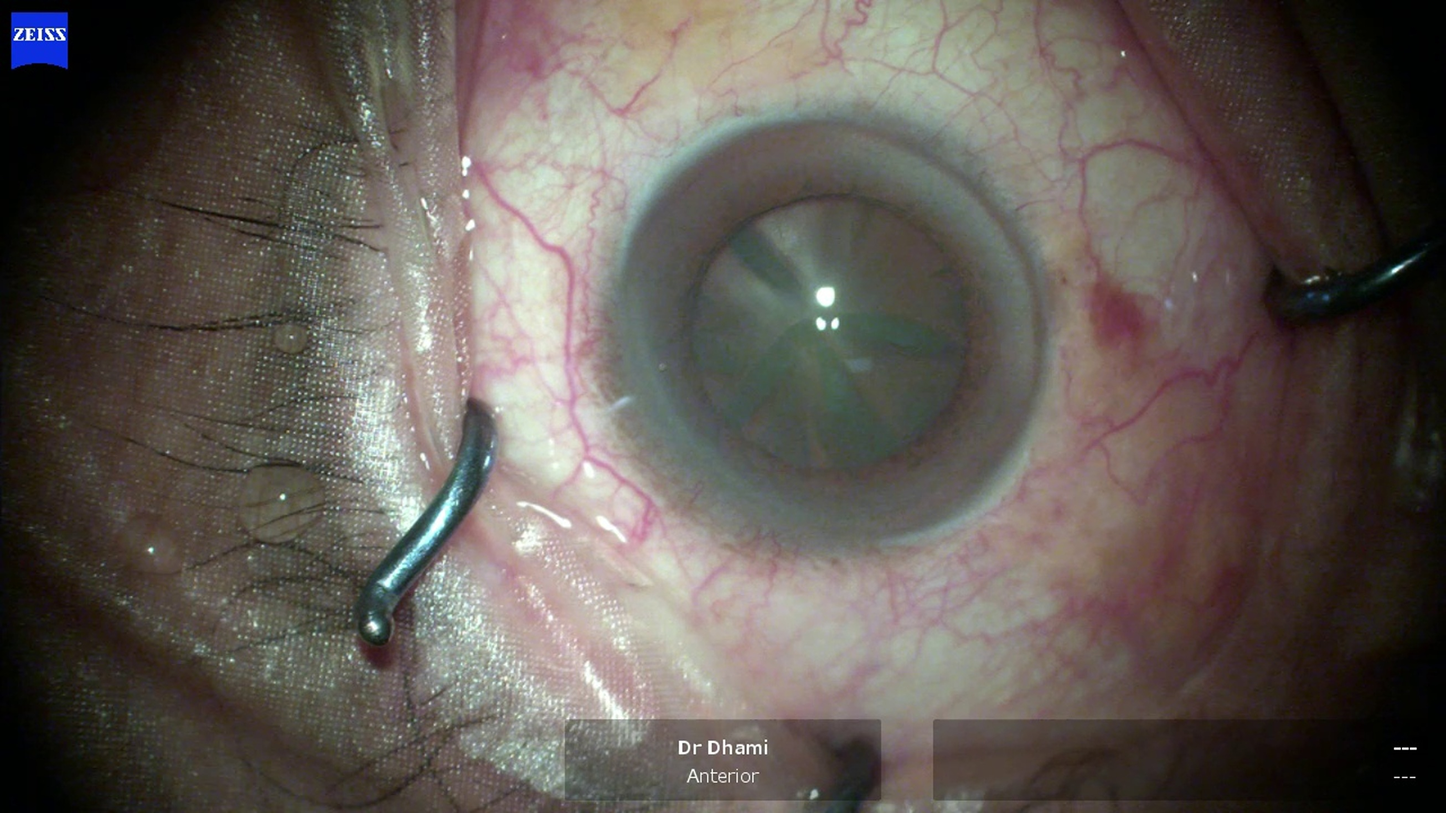
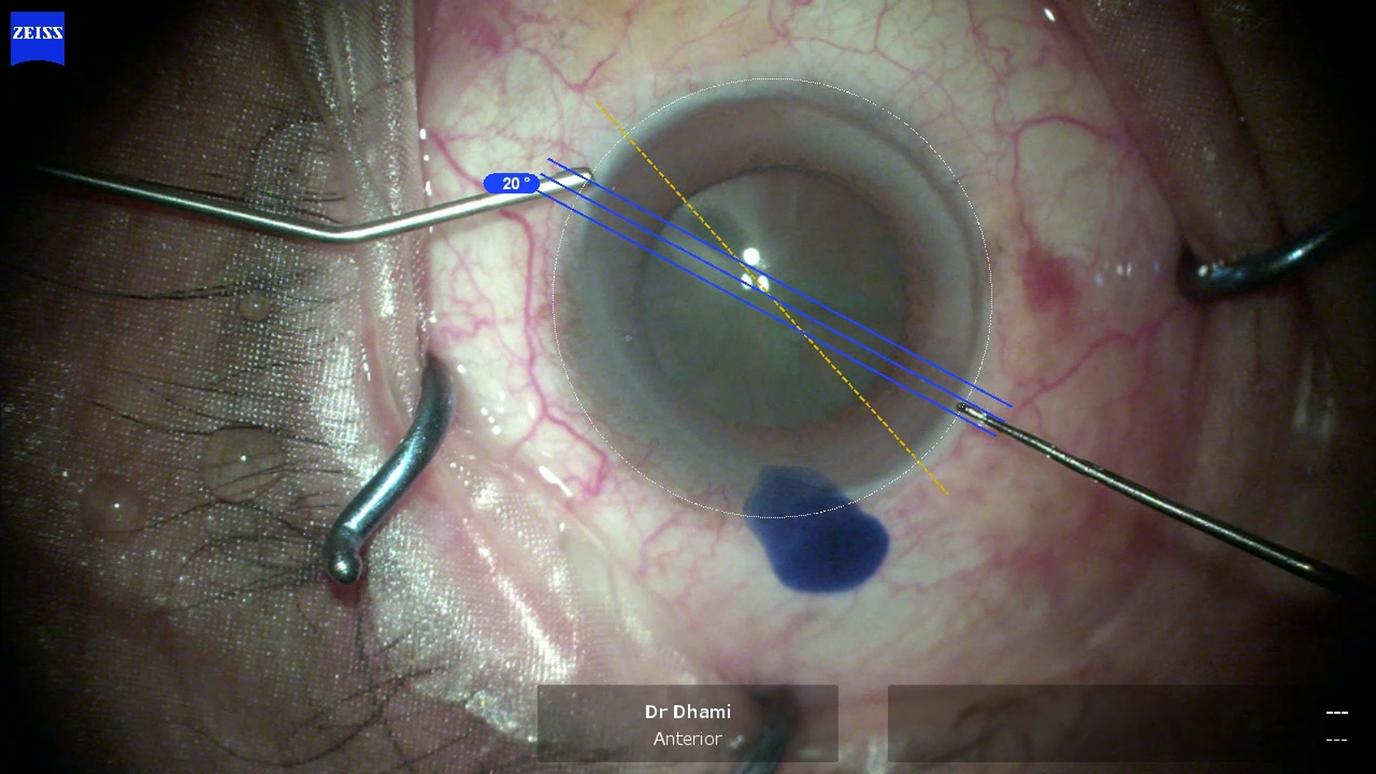
first_commit

diff --git a/app.py b/app.py
@@ -488,7 +488,7 @@ class ToricTrackerUI(QMainWindow):
         self.btn_load_preop.setFixedWidth(200)
         self.btn_load_preop.setStyleSheet("""
             QPushButton {
-                background-color: #9e9e9e;
+                background-color: #2196F3;
                 color: white;
                 border: none;
                 padding: 8px 15px;
@@ -496,7 +496,7 @@ class ToricTrackerUI(QMainWindow):
                 font-size: 11px;
             }
             QPushButton:hover {
-                background-color: #757575;
+                background-color: #1976D2;
             }
         """)
         self.btn_load_preop.clicked.connect(self.load_preop_model)
@@ -590,7 +590,7 @@ class ToricTrackerUI(QMainWindow):
         self.btn_submit_config = QPushButton("Submit / Start Registration")
         self.btn_submit_config.setStyleSheet("""
             QPushButton {
-                background-color: #9e9e9e;
+                background-color: #2196F3;
                 color: white;
                 border: none;
                 padding: 12px;
@@ -599,7 +599,7 @@ class ToricTrackerUI(QMainWindow):
                 border-radius: 5px;
             }
             QPushButton:hover {
-                background-color: #757575;
+                background-color: #1976D2;
             }
         """)
         self.btn_submit_config.clicked.connect(self.submit_configuration)
@@ -1054,7 +1054,7 @@ class ToricTrackerUI(QMainWindow):
         self.btn_start_tracking.setFixedHeight(35)  # Set fixed height
         self.btn_start_tracking.setStyleSheet("""
             QPushButton {
-                background-color: #9e9e9e;
+                background-color: #2196F3;
                 color: white;
                 border: none;
                 padding: 8px;
@@ -1062,7 +1062,7 @@ class ToricTrackerUI(QMainWindow):
                 font-weight: bold;
             }
             QPushButton:hover {
-                background-color: #757575;
+                background-color: #1976D2;
             }
         """)
         self.btn_start_tracking.clicked.connect(self.start_tracking)
@@ -1100,17 +1100,38 @@ class ToricTrackerUI(QMainWindow):
         checkbox_layout.setContentsMargins(0, 5, 0, 5)
         checkbox_layout.setSpacing(6)
         
-        self.check_ref_lines_tracking = QCheckBox("Show Ref Lines")
+        self.check_ref_lines_tracking = QCheckBox("Show Reference Line")
         self.check_ref_lines_tracking.setChecked(True)
         
-        self.check_toric_tracking = QCheckBox("Show Toric Axis (Dynamic)")
+        self.check_toric_tracking = QCheckBox("Show Toric Axis")
         self.check_toric_tracking.setChecked(True)
         
-        self.check_iris_ring = QCheckBox("Show Iris Ring")
+        self.check_iris_ring = QCheckBox("Show Limbus Circle")
         self.check_iris_ring.setChecked(True)
         
-        self.check_incision_tracking = QCheckBox("Show incision axis")
+        self.check_incision_tracking = QCheckBox("Show Incision Axis")
         self.check_incision_tracking.setChecked(True)
+        
+        # Create checkbox state references for dynamic updates during tracking
+        # Initialize with current checkbox states
+        self.tracking_show_reference_ref = [self.check_ref_lines_tracking.isChecked()]
+        self.tracking_show_toric_ref = [self.check_toric_tracking.isChecked()]
+        self.tracking_show_incision_ref = [self.check_incision_tracking.isChecked()]
+        self.tracking_show_limbus_ref = [self.check_iris_ring.isChecked()]
+        
+        # Connect checkboxes to update state references
+        self.check_ref_lines_tracking.stateChanged.connect(
+            lambda state: self._update_tracking_checkbox('reference', state)
+        )
+        self.check_toric_tracking.stateChanged.connect(
+            lambda state: self._update_tracking_checkbox('toric', state)
+        )
+        self.check_incision_tracking.stateChanged.connect(
+            lambda state: self._update_tracking_checkbox('incision', state)
+        )
+        self.check_iris_ring.stateChanged.connect(
+            lambda state: self._update_tracking_checkbox('limbus', state)
+        )
         
         checkbox_layout.addWidget(self.check_ref_lines_tracking)
         checkbox_layout.addWidget(self.check_toric_tracking)
@@ -2274,7 +2295,12 @@ class ToricTrackerUI(QMainWindow):
                     pause_flag_ref=self.tracking_pause_flag,
                     show_reference=self.check_ref_lines_tracking.isChecked(),
                     show_toric=self.check_toric_tracking.isChecked(),
-                    show_incision=self.check_incision_tracking.isChecked()
+                    show_incision=self.check_incision_tracking.isChecked(),
+                    show_limbus=self.check_iris_ring.isChecked(),
+                    show_reference_ref=self.tracking_show_reference_ref,
+                    show_toric_ref=self.tracking_show_toric_ref,
+                    show_incision_ref=self.tracking_show_incision_ref,
+                    show_limbus_ref=self.tracking_show_limbus_ref
                 )
                 # Store stats logger for later saving
                 self.tracking_stats_logger = stats_logger
@@ -2605,6 +2631,18 @@ class ToricTrackerUI(QMainWindow):
         self.canvas.show_incision_axis = self.check_incision.isChecked()
         self.canvas.show_iris_box = self.check_iris.isChecked()
         self.canvas.update()
+    
+    def _update_tracking_checkbox(self, checkbox_type: str, state: int):
+        """Update tracking checkbox state reference for dynamic updates during tracking"""
+        checked = (state == 2)  # Qt.Checked = 2
+        if checkbox_type == 'reference':
+            self.tracking_show_reference_ref[0] = checked
+        elif checkbox_type == 'toric':
+            self.tracking_show_toric_ref[0] = checked
+        elif checkbox_type == 'incision':
+            self.tracking_show_incision_ref[0] = checked
+        elif checkbox_type == 'limbus':
+            self.tracking_show_limbus_ref[0] = checked
     
     def reset_all(self):
         # Delete output folder before resetting

diff --git a/merged_pipeline.py b/merged_pipeline.py
@@ -557,7 +557,9 @@ def draw_line_on_frame(frame: np.ndarray,
                        incision_angle: float = None,
                        line_color: Tuple[int, int, int] = (0, 255, 255),
                        line_thickness: int = 2,
-                       preop_limbus_radius: int = None) -> np.ndarray:
+                       preop_limbus_radius: int = None,
+                       show_reference: bool = True,
+                       show_limbus: bool = True) -> np.ndarray:
     """
     Draw lines on a frame at specified angles from center.
     Matches Tab 3 (preop axis setup) visual style.
@@ -585,21 +587,22 @@ def draw_line_on_frame(frame: np.ndarray,
     length = int(radius * 1.5)
     
     # Draw reference line (broken yellow line) - matches Tab 3
-    angle_rad = np.radians(transformed_angle)
-    x1 = int(center[0] + length * np.cos(angle_rad))
-    y1 = int(center[1] + length * np.sin(angle_rad))
-    x2 = int(center[0] - length * np.cos(angle_rad))
-    y2 = int(center[1] - length * np.sin(angle_rad))
-    # Draw broken/dotted yellow line (simulate with segments)
-    num_segments = 20
-    dx = (x2 - x1) / num_segments
-    dy = (y2 - y1) / num_segments
-    for i in range(0, num_segments, 2):  # Draw every other segment for dotted effect
-        seg_x1 = int(x1 + i * dx)
-        seg_y1 = int(y1 + i * dy)
-        seg_x2 = int(x1 + (i + 1) * dx)
-        seg_y2 = int(y1 + (i + 1) * dy)
-        cv2.line(frame_copy, (seg_x1, seg_y1), (seg_x2, seg_y2), (0, 255, 255), line_thickness)  # Yellow in BGR
+    if show_reference:
+        angle_rad = np.radians(transformed_angle)
+        x1 = int(center[0] + length * np.cos(angle_rad))
+        y1 = int(center[1] + length * np.sin(angle_rad))
+        x2 = int(center[0] - length * np.cos(angle_rad))
+        y2 = int(center[1] - length * np.sin(angle_rad))
+        # Draw broken/dotted yellow line (simulate with segments)
+        num_segments = 20
+        dx = (x2 - x1) / num_segments
+        dy = (y2 - y1) / num_segments
+        for i in range(0, num_segments, 2):  # Draw every other segment for dotted effect
+            seg_x1 = int(x1 + i * dx)
+            seg_y1 = int(y1 + i * dy)
+            seg_x2 = int(x1 + (i + 1) * dx)
+            seg_y2 = int(y1 + (i + 1) * dy)
+            cv2.line(frame_copy, (seg_x1, seg_y1), (seg_x2, seg_y2), (0, 255, 255), line_thickness)  # Yellow in BGR
     
     # Draw toric line (if provided) - matches Tab 3 style: green, dotted, with parallel offset lines
     # Calculate relative to transformed reference angle (base = reference)
@@ -671,16 +674,17 @@ def draw_line_on_frame(frame: np.ndarray,
     cv2.circle(frame_copy, center, 8, (0, 255, 0), -1)
     
     # Draw limbus circle (broken green line) - matches Tab 3
-    # Draw broken/dotted green circle by drawing arc segments
-    num_circle_segments = 60
-    for i in range(0, num_circle_segments, 2):  # Draw every other segment for dotted effect
-        angle1 = 2 * np.pi * i / num_circle_segments
-        angle2 = 2 * np.pi * (i + 1) / num_circle_segments
-        x1_circle = int(center[0] + radius * np.cos(angle1))
-        y1_circle = int(center[1] + radius * np.sin(angle1))
-        x2_circle = int(center[0] + radius * np.cos(angle2))
-        y2_circle = int(center[1] + radius * np.sin(angle2))
-        cv2.line(frame_copy, (x1_circle, y1_circle), (x2_circle, y2_circle), (0, 255, 0), line_thickness)
+    if show_limbus:
+        # Draw broken/dotted green circle by drawing arc segments
+        num_circle_segments = 60
+        for i in range(0, num_circle_segments, 2):  # Draw every other segment for dotted effect
+            angle1 = 2 * np.pi * i / num_circle_segments
+            angle2 = 2 * np.pi * (i + 1) / num_circle_segments
+            x1_circle = int(center[0] + radius * np.cos(angle1))
+            y1_circle = int(center[1] + radius * np.sin(angle1))
+            x2_circle = int(center[0] + radius * np.cos(angle2))
+            y2_circle = int(center[1] + radius * np.sin(angle2))
+            cv2.line(frame_copy, (x1_circle, y1_circle), (x2_circle, y2_circle), (0, 255, 0), line_thickness)
     
     # Add text overlay
     text_y = 30

diff --git a/main.py b/main.py
@@ -345,7 +345,9 @@ def process_video_for_ui_simple(frame_callback: Callable[[np.ndarray, float, flo
             0.0,  # No rotation offset (simple mode)
             toric_angle=toric_angle if show_toric else None,
             incision_angle=incision_angle if show_incision else None,
-            preop_limbus_radius=preop_limbus_radius
+            preop_limbus_radius=preop_limbus_radius,
+            show_reference=show_reference,
+            show_limbus=True  # Simple mode always shows limbus
         )
         
         # Write frame to video (non-blocking)
@@ -381,7 +383,12 @@ def process_video_for_ui(frame_callback: Callable[[np.ndarray, float, float], No
                          pause_flag_ref: list,
                          show_reference: bool = True,
                          show_toric: bool = True,
-                         show_incision: bool = True) -> RotationStatsLogger:
+                         show_incision: bool = True,
+                         show_limbus: bool = True,
+                         show_reference_ref: list = None,
+                         show_toric_ref: list = None,
+                         show_incision_ref: list = None,
+                         show_limbus_ref: list = None) -> RotationStatsLogger:
     """
     Process video with live tracking and UI callback integration.
     
@@ -621,6 +628,13 @@ def process_video_for_ui(frame_callback: Callable[[np.ndarray, float, float], No
             transformed_angle = reference_angle + rotation_angle_to_use
             # Get preop limbus radius for offset calculation (matches Tab 3)
             preop_limbus_radius = preop_result.limbus_info.radius if preop_result and preop_result.limbus_info else None
+            
+            # Read checkbox states dynamically if references provided, otherwise use defaults
+            current_show_reference = show_reference_ref[0] if show_reference_ref is not None else show_reference
+            current_show_toric = show_toric_ref[0] if show_toric_ref is not None else show_toric
+            current_show_incision = show_incision_ref[0] if show_incision_ref is not None else show_incision
+            current_show_limbus = show_limbus_ref[0] if show_limbus_ref is not None else show_limbus
+            
             final_frame = draw_line_on_frame(
                 frame,
                 current_limbus_center,
@@ -628,9 +642,11 @@ def process_video_for_ui(frame_callback: Callable[[np.ndarray, float, float], No
                 transformed_angle,
                 reference_angle,
                 rotation_angle_to_use,
-                toric_angle=toric_angle if show_toric else None,
-                incision_angle=incision_angle if show_incision else None,
-                preop_limbus_radius=preop_limbus_radius
+                toric_angle=toric_angle if current_show_toric else None,
+                incision_angle=incision_angle if current_show_incision else None,
+                preop_limbus_radius=preop_limbus_radius,
+                show_reference=current_show_reference,
+                show_limbus=current_show_limbus
             )
         else:
             # No rotation data available yet
